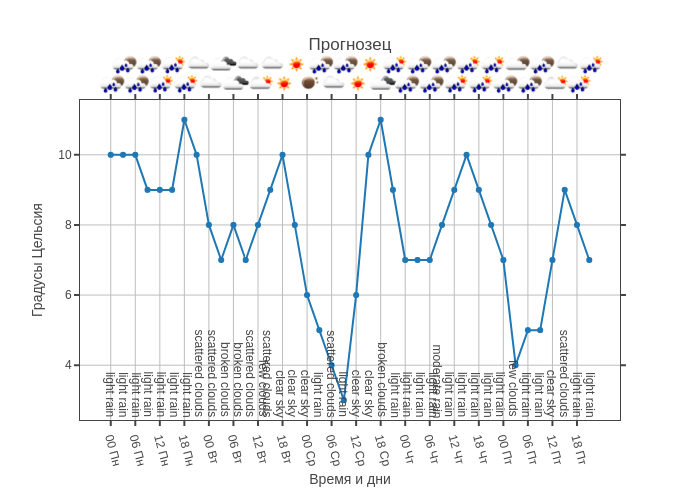
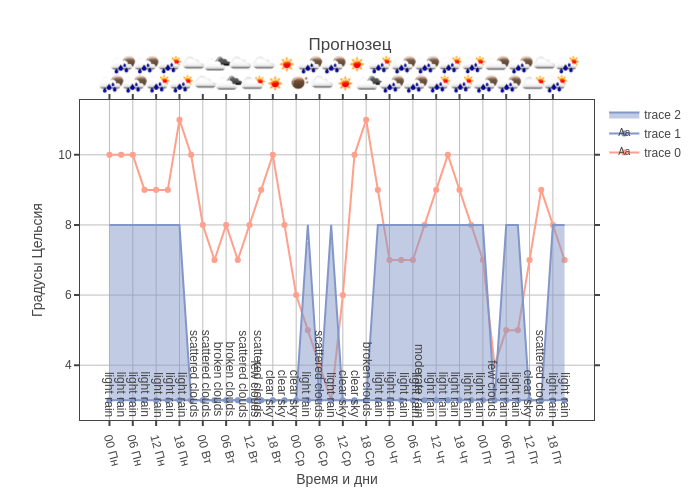
Add rain fill

diff --git a/try_chart_mp.py b/try_chart_mp.py
@@ -1,0 +1,136 @@
+import json
+
+import plotly.offline as offline
+#from plotly.offline import iplot, init_notebook_mode
+import plotly.graph_objs as go
+import plotly.io as pio
+
+import os
+import datetime
+
+
+def convert_to_MSK_tz(timestamp):
+    msk = datetime.datetime.fromtimestamp(timestamp+60*60*3)
+    days= {'Monday': 'Пн',
+           'Tuesday': 'Вт',
+           'Wednesday': 'Ср',
+           'Thursday': 'Чт',
+           'Friday': 'Пт',
+           'Saturday': 'Сб',
+           'Sunday': 'Вс'}
+    return msk.strftime('%H')+' '+days[msk.strftime('%A')]
+
+with open('result.txt', 'r') as result:
+    api = json.loads(result.read())
+
+# change days to observe
+#api['list'] = api['list'][:13]
+#api['list'] = api['list'][:30]
+
+#for point in api['list']:
+#    print(round(point['main']['temp']-273))
+
+temps = [ round(t['main']['temp']-273) for t in api['list'] ]
+
+dates = []
+for date in [ d['dt'] for d in api['list'] ]:
+    dates.append(convert_to_MSK_tz(date))
+
+
+texts = [ tx['weather'][0]['description'] for tx in api['list'] ]
+
+textposition = []
+counter = 0
+for t in temps[:-1]:
+    if temps[counter+1] > t:   # if next temp will be higher than current, text should be lower
+        textposition.append('bottom left')
+    else:
+        textposition.append('top left')
+    counter += 1 
+#print(textposition)
+
+min_chart = list(str(min(temps))*len(temps))
+
+max_cond = max(temps)-min(temps)
+conds = []
+print(max_cond)
+for text in texts:
+    if 'rain' in text:
+        conds.append(max_cond)
+    else:
+        conds.append(min(temps))
+print(conds)
+
+temp_min = min(temps)
+
+# x 0.955 for 13 units
+# x 0.91 for 40 units
+# Generate list with dicts
+images_ico = [ {'sizex': 0.1, 
+                'sizey': 0.1, 
+                'x': 0.03 + count*0.91/len(api['list']),
+                'y': 1 + 0.06*(count%2),
+                'xref': 'paper', 
+                'yref': 'paper', 
+                'xanchor': 'left',
+                'yanchor': 'bottom',
+                'source': 'http://openweathermap.org/img/w/{}.png'.format(api['list'][count]['weather'][0]['icon'])} for count in range(len(api['list'])) ]
+#print(images_ico)
+
+# Try annotations
+annotations = [{'xref': 'paper',
+                'yref': 'paper',
+                'showarrow': False,
+                'arrowhead': 0,
+                'textangle': 90,
+                'x': 0.04 + count*0.945/len(api['list']),
+                'y': 0,
+                'text': texts[count]} for count in range(len(api['list']))]
+#print(annotations)
+
+data = [{'x':dates, 
+         'y':temps, 
+         'fill': None,
+         'line': {'color':'rgb(255,160,140)'},
+         'mode':'lines+markers+text'},
+         {'x':dates, 
+         'y':min_chart, 
+         'fill': None,
+         'line': {'color':'rgb(130,150,200)'},
+         'mode':'lines+markers+text'},
+         {'x':dates, 
+         'y':conds,
+         'fill': 'tonexty',
+         'line': {'color':'rgb(130,150,200)'},
+         'mode':'lines'}]
+
+layout = go.Layout(title='Прогнозец',
+                   images=images_ico, 
+                   annotations=annotations,
+                   xaxis=dict(
+                              title='Время и дни', 
+                              ticks='outside', 
+                              showticklabels=True,
+                              tickangle=75,
+                              tickwidth=2, 
+                              showgrid=True, 
+                              showline=True,
+                              gridcolor='#bdbdbd',
+                              gridwidth=1, 
+                              mirror='ticks'
+                              ), 
+                   yaxis=dict(
+                              title='Градусы Цельсия',
+                              ticks='outside',
+                              tickwidth=2, 
+                              showgrid=True,
+                              showline=True, 
+                              gridcolor='#bdbdbd',
+                              gridwidth=1,
+                              mirror='ticks'
+                              ))
+
+fig = go.Figure(data=data, layout=layout)
+
+pio.write_image(fig, 'chart.png')
+
